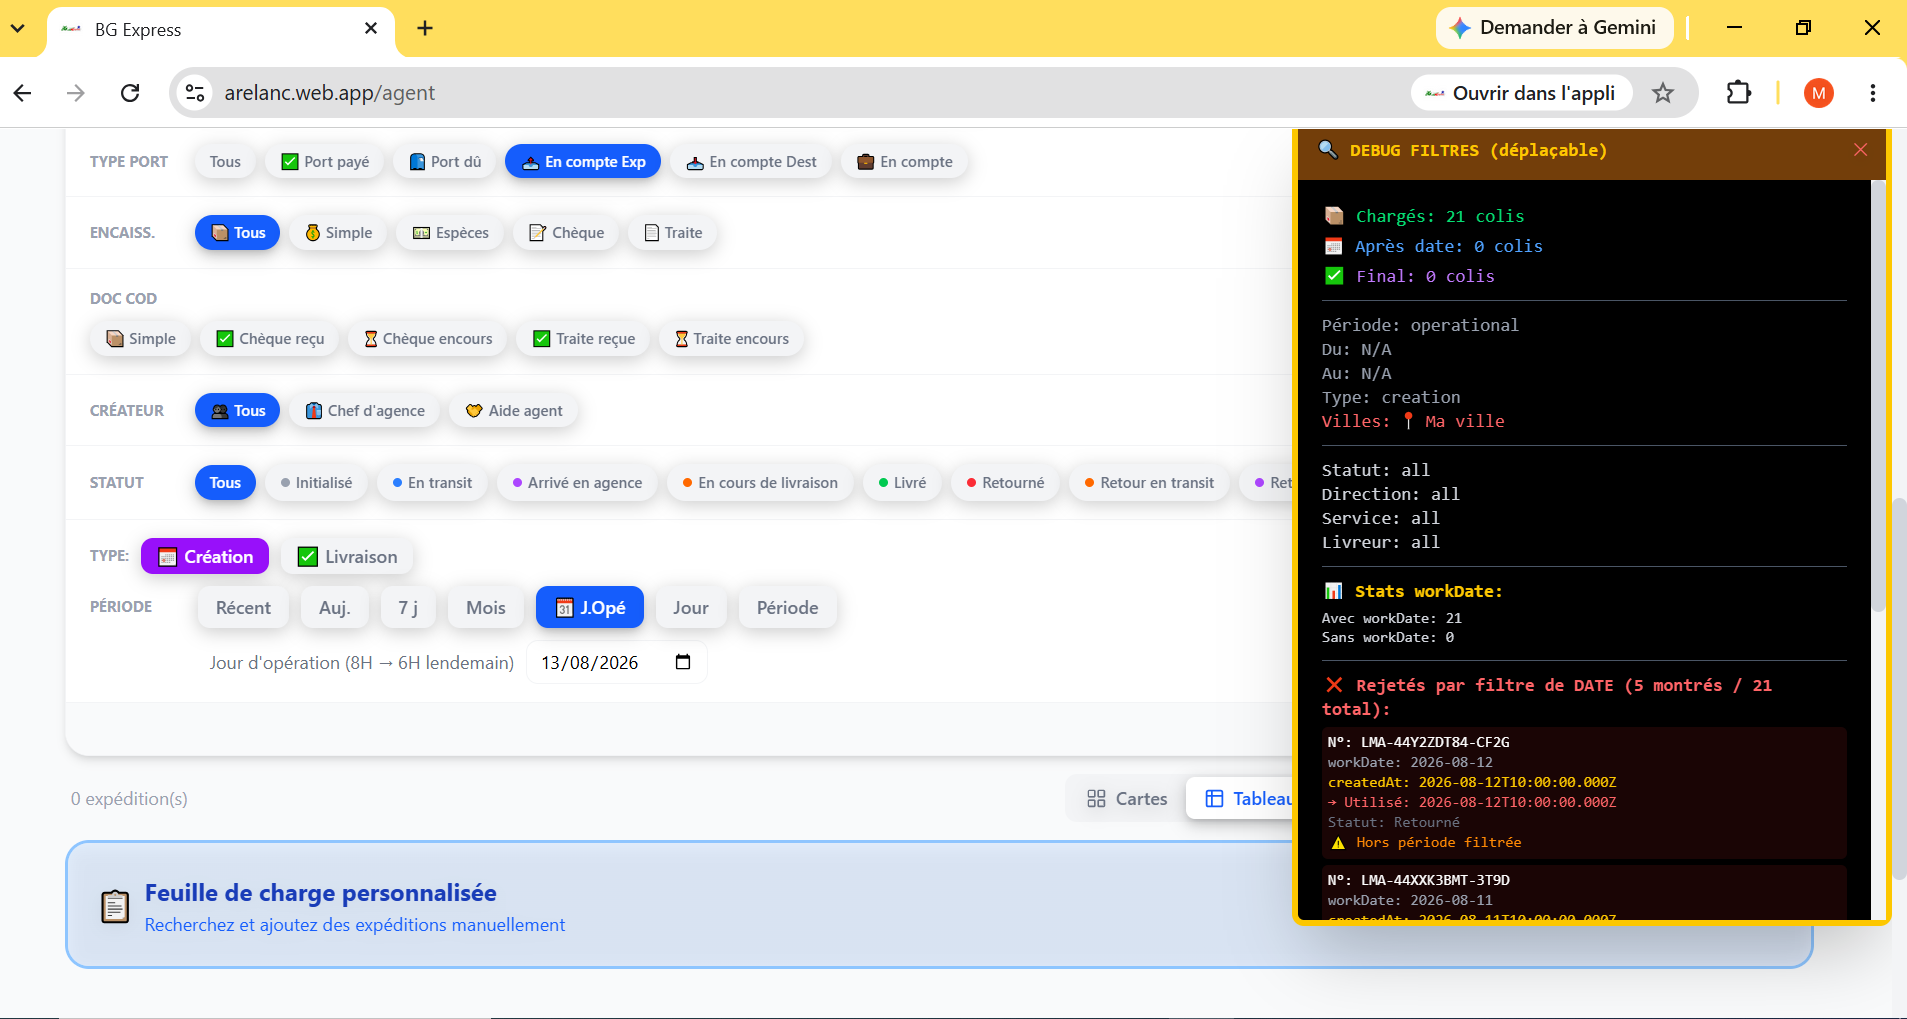
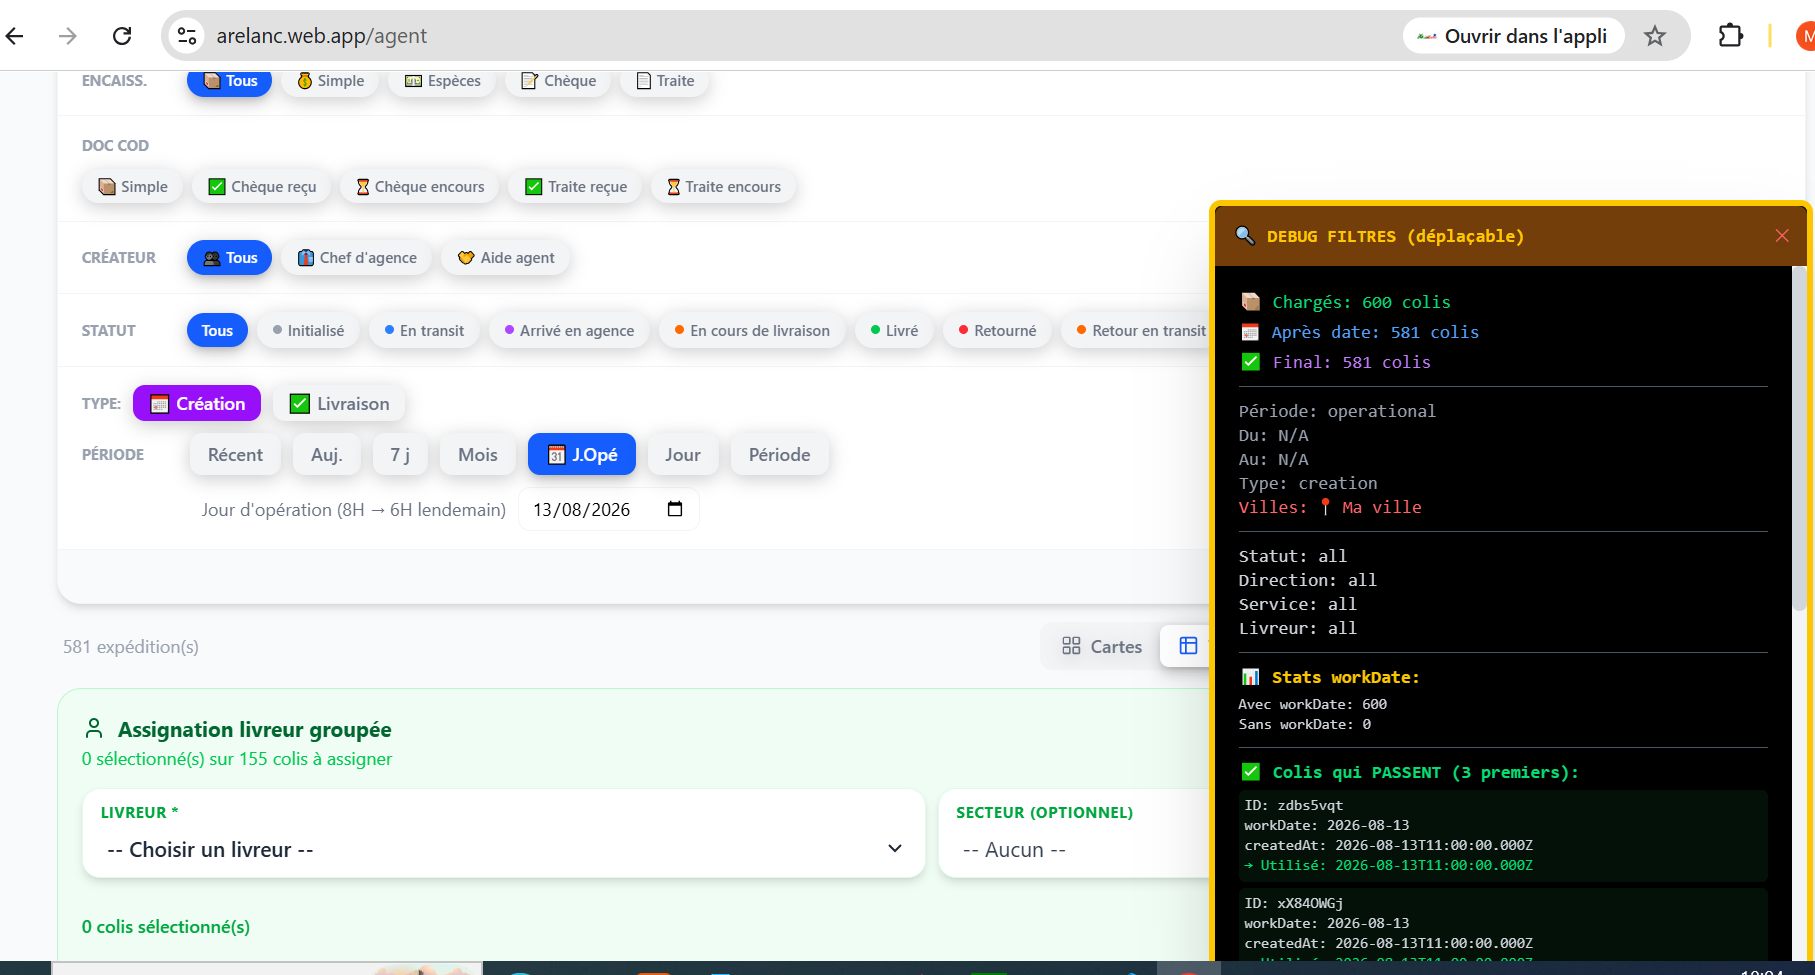
fix: Filtre Direction ne fonctionnait pas
PROBLÈME:
Le filtre 'Direction' (Envoyés/Reçus) ne fonctionnait pas.
Quand l'utilisateur changeait la direction, rien ne se passait.

CAUSES (2 bugs):
1. parcelDirection n'était PAS dans hasOtherFilters (ligne 648)
   → effectivePageSize restait à 50 au lieu de 1000
   → Le filtre s'appliquait sur seulement 50 colis

2. parcelDirection n'était PAS dans les dépendances useEffect (ligne 869)
   → Changement de direction ne déclenchait pas le rechargement
   → Les colis n'étaient pas rechargés depuis Firestore

SOLUTIONS:
1. Ajout de 'parcelDirection !== "all"' dans hasOtherFilters
   → Détection correcte du filtre actif
   → effectivePageSize = 1000 (au lieu de 50)

2. Ajout de 'parcelDirection' dans les dépendances useEffect
   → Rechargement automatique quand direction change
   → Les bons colis sont chargés depuis Firestore

3. Ajout dans le debug pour faciliter le suivi

RÉSULTAT:
✅ Le filtre Direction fonctionne maintenant correctement
✅ 'Envoyés' : colis envoyés DEPUIS la ville de l'agent
✅ 'Reçus' : colis reçus DANS la ville de l'agent
✅ Rechargement automatique quand direction change
✅ Fonctionne avec tous les presets (all, custom, operational, etc.)

diff --git a/src/pages/AgentPage.tsx b/src/pages/AgentPage.tsx
@@ -646,6 +646,7 @@ export default function AgentPage() {
     const hasOtherFilters =
       serviceFilter !== 'all' ||
       parcelStatusFilter !== 'all' ||
+      parcelDirection !== 'all' ||
       destinationCityFilter !== 'all' ||
       driverFilter !== 'all' ||
       portTypeFilter !== 'all' ||
@@ -662,6 +663,7 @@ export default function AgentPage() {
         date: datePreset,
         service: serviceFilter,
         status: parcelStatusFilter,
+        direction: parcelDirection,
         city: destinationCityFilter,
         driver: driverFilter,
         port: portTypeFilter,
@@ -866,7 +868,7 @@ export default function AgentPage() {
       unsubscribersRef.current.forEach(unsub => unsub())
       unsubscribersRef.current = []
     }
-  }, [profile?.role, profile?.city, authTick, showAllCities, datePreset, dateFrom, dateTo, operationalDay, serviceFilter, parcelStatusFilter, destinationCityFilter, driverFilter, portTypeFilter, encaissementFilter, codDocumentStatusFilter]) // ⚡ TOUS les filtres pour recharger 50→1000
+  }, [profile?.role, profile?.city, authTick, showAllCities, datePreset, dateFrom, dateTo, operationalDay, serviceFilter, parcelStatusFilter, parcelDirection, destinationCityFilter, driverFilter, portTypeFilter, encaissementFilter, codDocumentStatusFilter]) // ⚡ TOUS les filtres pour recharger 50→1000
 
   // ❌ DÉSACTIVÉ: Chargement automatique de tous les colis (désormais MANUEL uniquement)
   // useEffect(() => {
